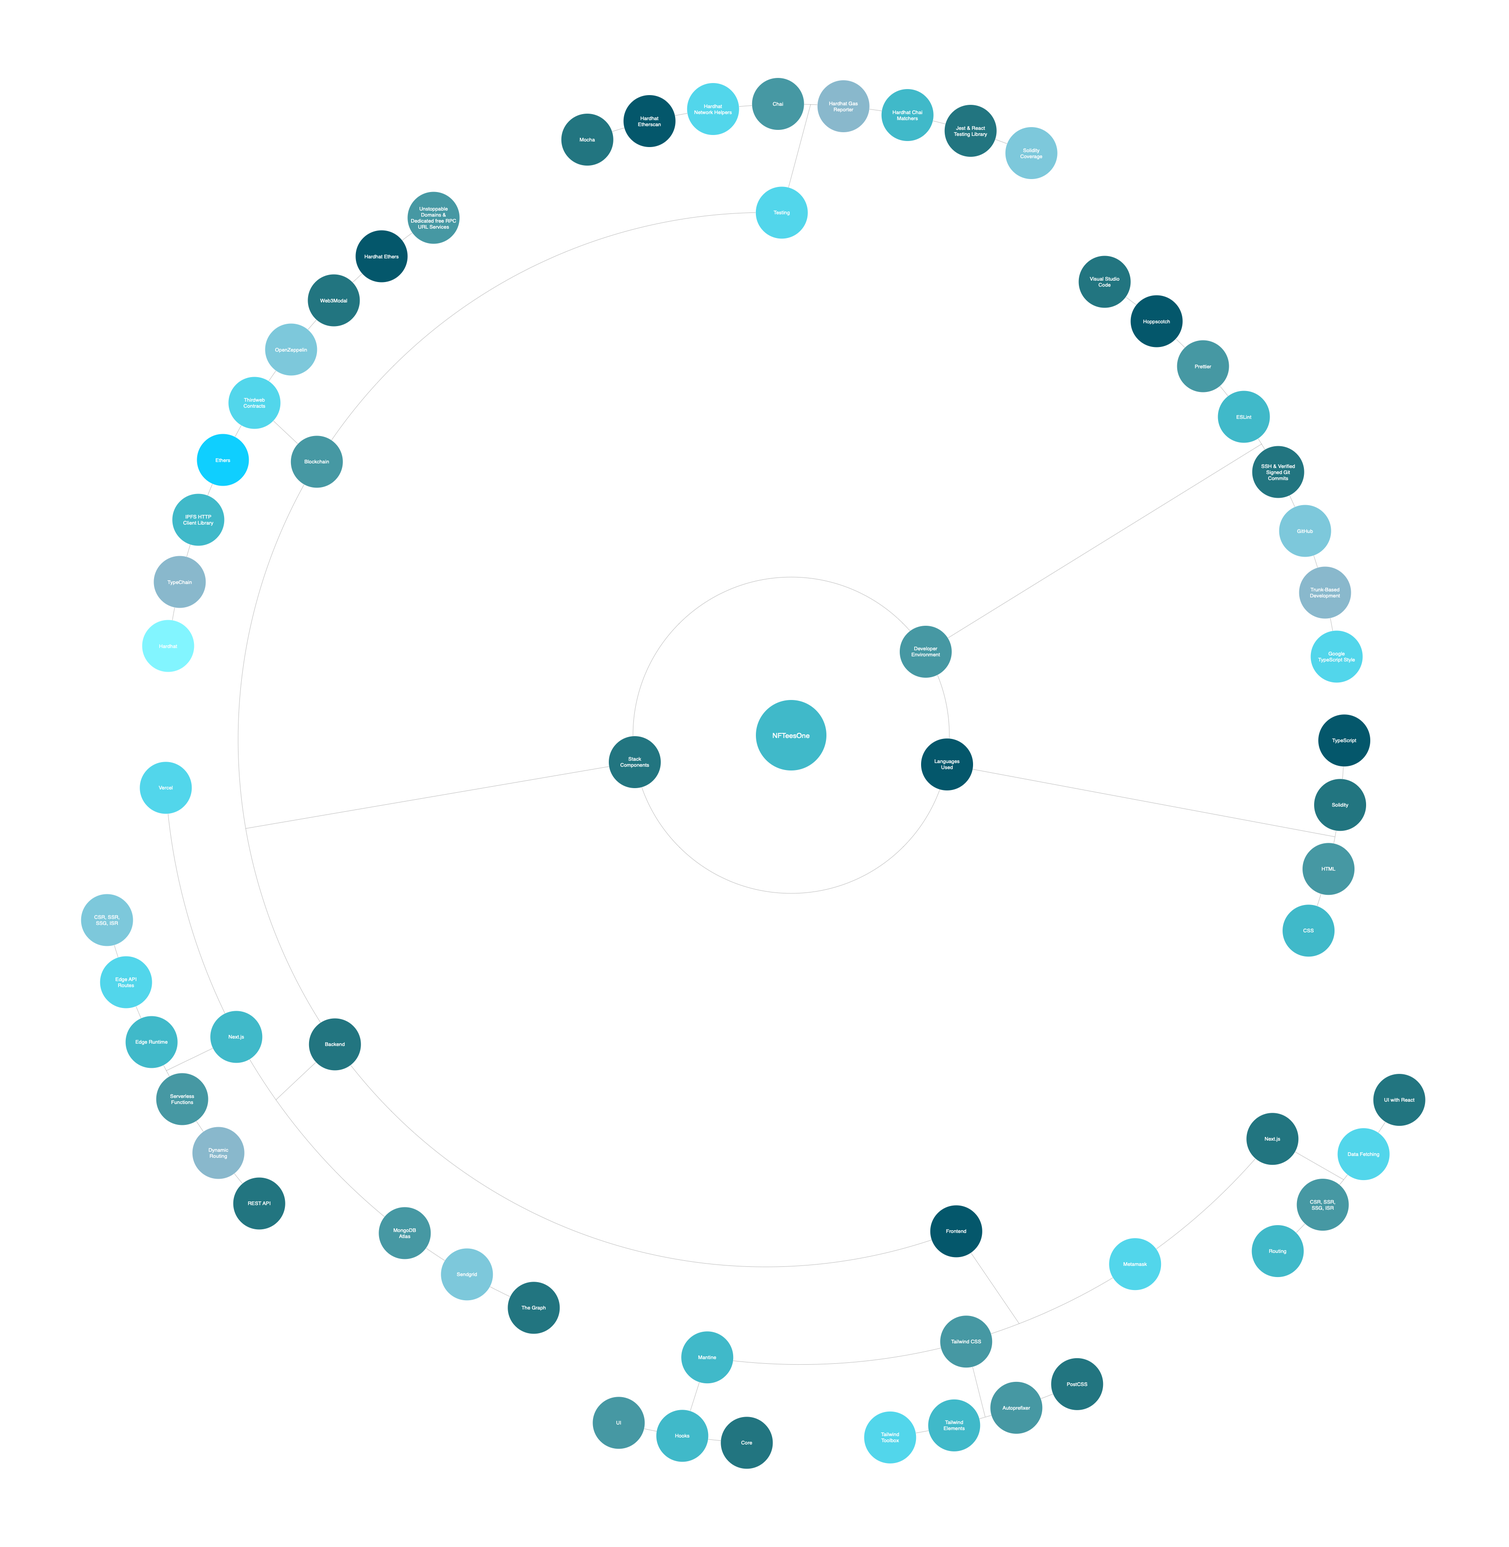
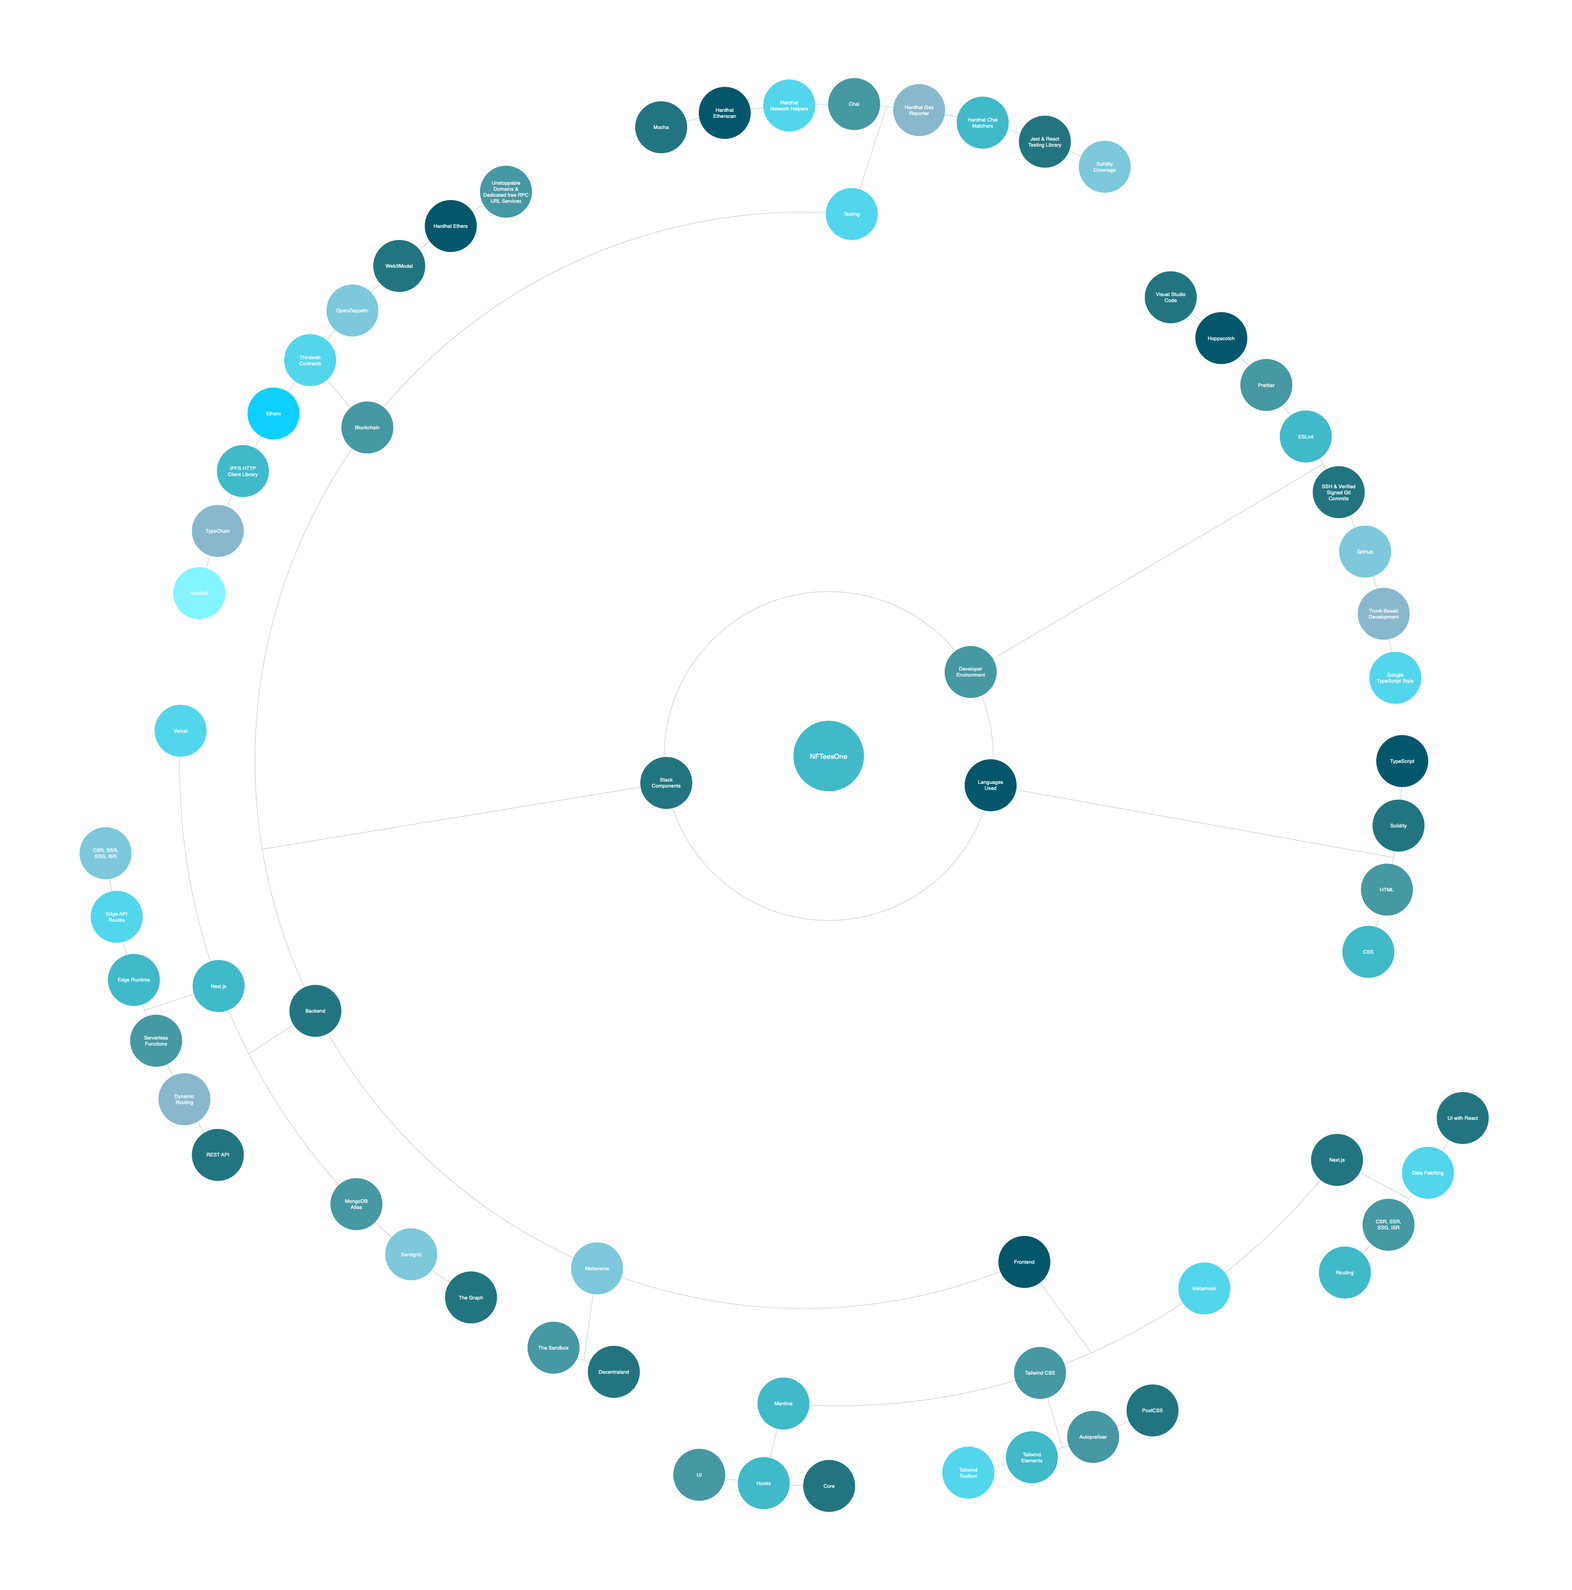
Test map upload

diff --git a/files/data.js b/files/data.js
@@ -1,2 +1,2 @@
-globalMindlyData = { "rootIdea": {"ideas":[{"ideas":[{"ideas":[],"elemtype":1,"identifier":"id1661831984_3","bgcolor":"#04566B","text":"TypeScript"},{"ideas":[],"elemtype":1,"identifier":"id1661832014_6","bgcolor":"#22747F","text":"Solidity"},{"ideas":[],"elemtype":1,"identifier":"id1661832002_4","bgcolor":"#4698A3","text":"HTML"},{"ideas":[],"elemtype":1,"identifier":"id1661832007_5","bgcolor":"#40B9C9","text":"CSS"}],"elemtype":1,"identifier":"id1661831923_2","bgcolor":"#04566B","text":"Languages Used"},{"ideas":[{"ideas":[{"ideas":[{"ideas":[],"elemtype":1,"identifier":"id1661833660_24","bgcolor":"#22747F","text":"UI with React"},{"ideas":[],"elemtype":1,"identifier":"id1661833961_27","bgcolor":"#52D6EA","text":"Data Fetching"},{"ideas":[],"elemtype":1,"identifier":"id1661833731_25","bgcolor":"#4698A3","text":"CSR, SSR, SSG, ISR"},{"ideas":[],"elemtype":1,"identifier":"id1661833954_26","bgcolor":"#40B9C9","text":"Routing"}],"elemtype":1,"identifier":"id1661833259_22","bgcolor":"#22747F","text":"Next.js"},{"ideas":[],"elemtype":1,"identifier":"id1661835725_53","bgcolor":"#52D6EA","text":"Metamask"},{"ideas":[{"ideas":[],"elemtype":1,"identifier":"id1661834052_28","bgcolor":"#22747F","text":"PostCSS"},{"ideas":[],"elemtype":1,"identifier":"id1661834066_29","bgcolor":"#4698A3","text":"Autoprefixer"},{"ideas":[],"elemtype":1,"identifier":"id1661834090_30","bgcolor":"#40B9C9","text":"Tailwind Elements"},{"ideas":[],"elemtype":1,"identifier":"id1661834119_31","bgcolor":"#52D6EA","text":"Tailwind Toolbox"}],"elemtype":1,"identifier":"id1661833286_23","bgcolor":"#4698A3","text":"Tailwind CSS"},{"ideas":[{"ideas":[],"elemtype":1,"identifier":"id1661834279_33","bgcolor":"#22747F","text":"Core"},{"ideas":[],"elemtype":1,"identifier":"id1661834294_35","bgcolor":"#40B9C9","text":"Hooks"},{"ideas":[],"elemtype":1,"identifier":"id1661834283_34","bgcolor":"#4698A3","text":"UI"}],"elemtype":1,"identifier":"id1661834195_32","bgcolor":"#40B9C9","text":"Mantine"}],"elemtype":1,"identifier":"id1661832231_8","bgcolor":"#04566B","text":"Frontend"},{"ideas":[{"ideas":[],"elemtype":1,"identifier":"id1661835841_54","bgcolor":"#22747F","text":"The Graph"},{"ideas":[],"elemtype":1,"identifier":"id1661836499_64","bgcolor":"#7DC8DB","text":"Sendgrid"},{"ideas":[],"elemtype":1,"identifier":"id1661835860_55","bgcolor":"#4698A3","text":"MongoDB Atlas"},{"ideas":[{"ideas":[],"elemtype":1,"identifier":"id1661836133_57","bgcolor":"#22747F","text":"REST API"},{"ideas":[],"elemtype":1,"identifier":"id1661836460_62","bgcolor":"#88B7CC","text":"Dynamic Routing"},{"ideas":[],"elemtype":1,"identifier":"id1661836267_58","bgcolor":"#4698A3","text":"Serverless Functions"},{"ideas":[],"elemtype":1,"identifier":"id1661836289_59","bgcolor":"#40B9C9","text":"Edge Runtime"},{"ideas":[],"elemtype":1,"identifier":"id1661836354_60","bgcolor":"#52D6EA","text":"Edge API Routes"},{"ideas":[],"elemtype":1,"identifier":"id1661836428_61","bgcolor":"#7DC8DB","text":"CSR, SSR, SSG, ISR"}],"elemtype":1,"identifier":"id1661836082_56","bgcolor":"#40B9C9","text":"Next.js"},{"ideas":[],"elemtype":1,"identifier":"id1661836493_63","bgcolor":"#52D6EA","text":"Vercel"}],"elemtype":1,"identifier":"id1661832236_9","bgcolor":"#22747F","text":"Backend"},{"ideas":[{"ideas":[],"elemtype":1,"identifier":"id1661832378_11","bgcolor":"#82F4FF","text":"Hardhat"},{"ideas":[],"elemtype":1,"identifier":"id1661834647_40","bgcolor":"#88B7CC","text":"TypeChain"},{"ideas":[],"elemtype":1,"identifier":"id1661834436_37","bgcolor":"#40B9C9","text":"IPFS HTTP Client Library"},{"ideas":[],"elemtype":1,"identifier":"id1661832506_12","bgcolor":"#0FCFFF","text":"Ethers"},{"ideas":[],"elemtype":1,"identifier":"id1661834499_38","bgcolor":"#52D6EA","text":"Thirdweb Contracts"},{"ideas":[],"elemtype":1,"identifier":"id1661834557_39","bgcolor":"#7DC8DB","text":"OpenZeppelin"},{"ideas":[],"elemtype":1,"identifier":"id1661835207_49","bgcolor":"#22747F","text":"Web3Modal"},{"ideas":[],"elemtype":1,"identifier":"id1661834799_44","bgcolor":"#04566B","text":"Hardhat Ethers"},{"ideas":[],"elemtype":1,"identifier":"id1661835364_50","bgcolor":"#4698A3","text":"Unstoppable Domains & Dedicated free RPC URL Services"}],"elemtype":1,"identifier":"id1661832248_10","bgcolor":"#4698A3","text":"Blockchain"},{"ideas":[{"ideas":[],"elemtype":1,"identifier":"id1661834669_41","bgcolor":"#22747F","text":"Mocha"},{"ideas":[],"elemtype":1,"identifier":"id1661835047_48","bgcolor":"#04566B","text":"Hardhat Etherscan"},{"ideas":[],"elemtype":1,"identifier":"id1661834944_45","bgcolor":"#52D6EA","text":"Hardhat Network Helpers"},{"ideas":[],"elemtype":1,"identifier":"id1661834674_42","bgcolor":"#4698A3","text":"Chai"},{"ideas":[],"elemtype":1,"identifier":"id1661834999_47","bgcolor":"#88B7CC","text":"Hardhat Gas Reporter"},{"ideas":[],"elemtype":1,"identifier":"id1661834717_43","bgcolor":"#40B9C9","text":"Hardhat Chai Matchers"},{"ideas":[],"elemtype":1,"identifier":"id1661836584_65","bgcolor":"#22747F","text":"Jest & React Testing Library"},{"ideas":[],"elemtype":1,"identifier":"id1661834978_46","bgcolor":"#7DC8DB","text":"Solidity Coverage"}],"elemtype":1,"identifier":"id1661834406_36","bgcolor":"#52D6EA","text":"Testing"}],"elemtype":1,"identifier":"id1661832190_7","bgcolor":"#22747F","text":"Stack Components"},{"ideas":[{"ideas":[],"elemtype":1,"identifier":"id1661832753_14","bgcolor":"#22747F","text":"Visual Studio Code"},{"ideas":[],"elemtype":1,"identifier":"id1661836645_66","bgcolor":"#04566B","text":"Hoppscotch"},{"ideas":[],"elemtype":1,"identifier":"id1661832784_15","bgcolor":"#4698A3","text":"Prettier"},{"ideas":[],"elemtype":1,"identifier":"id1661832790_16","bgcolor":"#40B9C9","text":"ESLint"},{"ideas":[],"elemtype":1,"identifier":"id1661872478_126","bgcolor":"#22747F","text":"SSH & Verified Signed Git Commits"},{"ideas":[],"elemtype":1,"identifier":"id1661833074_18","bgcolor":"#7DC8DB","text":"GitHub"},{"ideas":[],"elemtype":1,"identifier":"id1661833134_19","bgcolor":"#88B7CC","text":"Trunk-Based Development"},{"ideas":[],"elemtype":1,"identifier":"id1661832826_17","bgcolor":"#52D6EA","text":"Google TypeScript Style"}],"elemtype":1,"identifier":"id1661832739_13","bgcolor":"#4698A3","text":"Developer Environment"}],"elemtype":1,"identifier":"id1661103910_1","bgcolor":"#40B9C9","text":"NFTeesOne"},
+globalMindlyData = { "rootIdea": {"ideas":[{"ideas":[{"ideas":[],"elemtype":1,"identifier":"id1661831984_3","bgcolor":"#04566B","text":"TypeScript"},{"ideas":[],"elemtype":1,"identifier":"id1661832014_6","bgcolor":"#22747F","text":"Solidity"},{"ideas":[],"elemtype":1,"identifier":"id1661832002_4","bgcolor":"#4698A3","text":"HTML"},{"ideas":[],"elemtype":1,"identifier":"id1661832007_5","bgcolor":"#40B9C9","text":"CSS"}],"elemtype":1,"identifier":"id1661831923_2","bgcolor":"#04566B","text":"Languages Used"},{"ideas":[{"ideas":[{"ideas":[{"ideas":[],"elemtype":1,"identifier":"id1661833660_24","bgcolor":"#22747F","text":"UI with React"},{"ideas":[],"elemtype":1,"identifier":"id1661833961_27","bgcolor":"#52D6EA","text":"Data Fetching"},{"ideas":[],"elemtype":1,"identifier":"id1661833731_25","bgcolor":"#4698A3","text":"CSR, SSR, SSG, ISR"},{"ideas":[],"elemtype":1,"identifier":"id1661833954_26","bgcolor":"#40B9C9","text":"Routing"}],"elemtype":1,"identifier":"id1661833259_22","bgcolor":"#22747F","text":"Next.js"},{"ideas":[],"elemtype":1,"identifier":"id1661835725_53","bgcolor":"#52D6EA","text":"Metamask"},{"ideas":[{"ideas":[],"elemtype":1,"identifier":"id1661834052_28","bgcolor":"#22747F","text":"PostCSS"},{"ideas":[],"elemtype":1,"identifier":"id1661834066_29","bgcolor":"#4698A3","text":"Autoprefixer"},{"ideas":[],"elemtype":1,"identifier":"id1661834090_30","bgcolor":"#40B9C9","text":"Tailwind Elements"},{"ideas":[],"elemtype":1,"identifier":"id1661834119_31","bgcolor":"#52D6EA","text":"Tailwind Toolbox"}],"elemtype":1,"identifier":"id1661833286_23","bgcolor":"#4698A3","text":"Tailwind CSS"},{"ideas":[{"ideas":[],"elemtype":1,"identifier":"id1661834279_33","bgcolor":"#22747F","text":"Core"},{"ideas":[],"elemtype":1,"identifier":"id1661834294_35","bgcolor":"#40B9C9","text":"Hooks"},{"ideas":[],"elemtype":1,"identifier":"id1661834283_34","bgcolor":"#4698A3","text":"UI"}],"elemtype":1,"identifier":"id1661834195_32","bgcolor":"#40B9C9","text":"Mantine"}],"elemtype":1,"identifier":"id1661832231_8","bgcolor":"#04566B","text":"Frontend"},{"ideas":[{"ideas":[],"elemtype":1,"identifier":"id1661888638_2","bgcolor":"#22747F","text":"Decentraland"},{"ideas":[],"elemtype":1,"identifier":"id1661888643_3","bgcolor":"#4698A3","text":"The Sandbox"}],"elemtype":1,"identifier":"id1661888631_1","bgcolor":"#7DC8DB","text":"Metaverse"},{"ideas":[{"ideas":[],"elemtype":1,"identifier":"id1661835841_54","bgcolor":"#22747F","text":"The Graph"},{"ideas":[],"elemtype":1,"identifier":"id1661836499_64","bgcolor":"#7DC8DB","text":"Sendgrid"},{"ideas":[],"elemtype":1,"identifier":"id1661835860_55","bgcolor":"#4698A3","text":"MongoDB Atlas"},{"ideas":[{"ideas":[],"elemtype":1,"identifier":"id1661836133_57","bgcolor":"#22747F","text":"REST API"},{"ideas":[],"elemtype":1,"identifier":"id1661836460_62","bgcolor":"#88B7CC","text":"Dynamic Routing"},{"ideas":[],"elemtype":1,"identifier":"id1661836267_58","bgcolor":"#4698A3","text":"Serverless Functions"},{"ideas":[],"elemtype":1,"identifier":"id1661836289_59","bgcolor":"#40B9C9","text":"Edge Runtime"},{"ideas":[],"elemtype":1,"identifier":"id1661836354_60","bgcolor":"#52D6EA","text":"Edge API Routes"},{"ideas":[],"elemtype":1,"identifier":"id1661836428_61","bgcolor":"#7DC8DB","text":"CSR, SSR, SSG, ISR"}],"elemtype":1,"identifier":"id1661836082_56","bgcolor":"#40B9C9","text":"Next.js"},{"ideas":[],"elemtype":1,"identifier":"id1661836493_63","bgcolor":"#52D6EA","text":"Vercel"}],"elemtype":1,"identifier":"id1661832236_9","bgcolor":"#22747F","text":"Backend"},{"ideas":[{"ideas":[],"elemtype":1,"identifier":"id1661832378_11","bgcolor":"#82F4FF","text":"Hardhat"},{"ideas":[],"elemtype":1,"identifier":"id1661834647_40","bgcolor":"#88B7CC","text":"TypeChain"},{"ideas":[],"elemtype":1,"identifier":"id1661834436_37","bgcolor":"#40B9C9","text":"IPFS HTTP Client Library"},{"ideas":[],"elemtype":1,"identifier":"id1661832506_12","bgcolor":"#0FCFFF","text":"Ethers"},{"ideas":[],"elemtype":1,"identifier":"id1661834499_38","bgcolor":"#52D6EA","text":"Thirdweb Contracts"},{"ideas":[],"elemtype":1,"identifier":"id1661834557_39","bgcolor":"#7DC8DB","text":"OpenZeppelin"},{"ideas":[],"elemtype":1,"identifier":"id1661835207_49","bgcolor":"#22747F","text":"Web3Modal"},{"ideas":[],"elemtype":1,"identifier":"id1661834799_44","bgcolor":"#04566B","text":"Hardhat Ethers"},{"ideas":[],"elemtype":1,"identifier":"id1661835364_50","bgcolor":"#4698A3","text":"Unstoppable Domains & Dedicated free RPC URL Services"}],"elemtype":1,"identifier":"id1661832248_10","bgcolor":"#4698A3","text":"Blockchain"},{"ideas":[{"ideas":[],"elemtype":1,"identifier":"id1661834669_41","bgcolor":"#22747F","text":"Mocha"},{"ideas":[],"elemtype":1,"identifier":"id1661835047_48","bgcolor":"#04566B","text":"Hardhat Etherscan"},{"ideas":[],"elemtype":1,"identifier":"id1661834944_45","bgcolor":"#52D6EA","text":"Hardhat Network Helpers"},{"ideas":[],"elemtype":1,"identifier":"id1661834674_42","bgcolor":"#4698A3","text":"Chai"},{"ideas":[],"elemtype":1,"identifier":"id1661834999_47","bgcolor":"#88B7CC","text":"Hardhat Gas Reporter"},{"ideas":[],"elemtype":1,"identifier":"id1661834717_43","bgcolor":"#40B9C9","text":"Hardhat Chai Matchers"},{"ideas":[],"elemtype":1,"identifier":"id1661836584_65","bgcolor":"#22747F","text":"Jest & React Testing Library"},{"ideas":[],"elemtype":1,"identifier":"id1661834978_46","bgcolor":"#7DC8DB","text":"Solidity Coverage"}],"elemtype":1,"identifier":"id1661834406_36","bgcolor":"#52D6EA","text":"Testing"}],"elemtype":1,"identifier":"id1661832190_7","bgcolor":"#22747F","text":"Stack Components"},{"ideas":[{"ideas":[],"elemtype":1,"identifier":"id1661832753_14","bgcolor":"#22747F","text":"Visual Studio Code"},{"ideas":[],"elemtype":1,"identifier":"id1661836645_66","bgcolor":"#04566B","text":"Hoppscotch"},{"ideas":[],"elemtype":1,"identifier":"id1661832784_15","bgcolor":"#4698A3","text":"Prettier"},{"ideas":[],"elemtype":1,"identifier":"id1661832790_16","bgcolor":"#40B9C9","text":"ESLint"},{"ideas":[],"elemtype":1,"identifier":"id1661872478_126","bgcolor":"#22747F","text":"SSH & Verified Signed Git Commits"},{"ideas":[],"elemtype":1,"identifier":"id1661833074_18","bgcolor":"#7DC8DB","text":"GitHub"},{"ideas":[],"elemtype":1,"identifier":"id1661833134_19","bgcolor":"#88B7CC","text":"Trunk-Based Development"},{"ideas":[],"elemtype":1,"identifier":"id1661832826_17","bgcolor":"#52D6EA","text":"Google TypeScript Style"}],"elemtype":1,"identifier":"id1661832739_13","bgcolor":"#4698A3","text":"Developer Environment"}],"elemtype":1,"identifier":"id1661103910_1","bgcolor":"#40B9C9","text":"NFTeesOne"},
 "mode": "presentation" };

diff --git a/index.html b/index.html
@@ -1,149 +1,18 @@
-<!DOCTYPE html>
-<html lang="en">
-  <head>
-    <meta charset="UTF-8" />
-    <meta
-      name="viewport"
-      content="width=device-width, initial-scale=1.0, shrink-to-fit=no"
-    />
-    <meta http-equiv="X-UA-Compatible" content="ie=edge" />
-    <link
-      rel="stylesheet"
-      href="https://stackpath.bootstrapcdn.com/bootstrap/4.3.1/css/bootstrap.min.css"
-      integrity="sha384-ggOyR0iXCbMQv3Xipma34MD+dH/1fQ784/j6cY/iJTQUOhcWr7x9JvoRxT2MZw1T"
-      crossorigin="anonymous"
-    />
-    <title>About Me | Haz</title>
-    <link rel="stylesheet" href="assets/css/style.css" />
-    <!-- Link Sharing Previews -->
-    <meta property="og:title" content="About Hazael" />
-    <meta
-      property="og:image"
-      content="https://hazael.io/assets/images/portrait.jpeg"
-    />
-  </head>
-
-  <body>
-    <!-- Nav Bar -->
-    <nav class="navbar navbar-expand-lg navbar-light bg-light">
-      <a id="logo" class="navbar-brand" href="index.html">Haz</a>
-      <button
-        class="navbar-toggler"
-        type="button"
-        data-toggle="collapse"
-        data-target="#navbarNavAltMarkup"
-        aria-controls="navbarNavAltMarkup"
-        aria-expanded="false"
-        aria-label="Toggle navigation"
-      >
-        <span class="navbar-toggler-icon"></span>
-      </button>
-      <div class="collapse navbar-collapse" id="navbarNavAltMarkup">
-        <div class="navbar-nav">
-          <a class="nav-item nav-link" href="index.html">About</a>
-          <a class="nav-item nav-link" href="portfolio.html">Portfolio</a>
-          <a
-            class="nav-item nav-link"
-            href="mailto:hazael.j.dominguez@gmail.com?subject=Portfolio%20Contact"
-            >Email Me</a
-          >
-          <a
-            class="nav-item nav-link"
-            href="/assets/docs/Hazael.Dominguez.Resume.pdf"
-            >Resume</a
-          >
-          <a
-            class="nav-item nav-link"
-            href="https://www.linkedin.com/in/haz3141/"
-            >LinkedIn</a
-          >
-          <a class="nav-item nav-link" href="https://github.com/haz3141/"
-            >GitHub</a
-          >
-        </div>
-      </div>
-    </nav>
-
-    <!-- Content Area -->
-    <main class="container">
-      <article class="row">
-        <div class="col-md-1"></div>
-        <section id="about-me" class="col-md-10">
-          <div class="row">
-            <h1 class="col-md-12">About Me</h1>
-          </div>
-
-          <div class="row">
-            <div class="col-md-12">
-              <img class="bio-pic" src="assets/images/me_BW.jpg" alt="Me" />
-              <p>
-                Kaleidoscopes function on the principle of multiple reflection.
-                Using several mirrors angled precisely from one another they are
-                able to turn bits of colored glass into a perfectly symmetrical
-                work of ever changing art. My studies and life experiences as an
-                interdisciplinarian have come together like the parts of a
-                kaleidoscope.
-              </p>
-
-              <p>
-                The mirrors in my life are my areas of study that have allowed
-                me to be involved in several amazing ventures and adventures.
-                Being involved in health and computer sciences has allowed me to
-                build my kaleidoscope, but without my focus on entrepreneurship
-                I would not have the momentum to generate the art in my life.
-              </p>
-
-              <p>
-                As an entrepreneur I take great pride in my past ventures
-                because every failure and every mistake is a chance to keep
-                turning my scope and although with every turn I lose the
-                beautiful art that once was – I know that the pieces are still
-                there and beautiful art is right around the corner. There have
-                been two specific ventures that left a remarkable impact on me.
-                Both of these ventures involved me being in a leadership
-                position reporting directly to the CEO and in both cases I was
-                able to witness incredible feats of injustice and mismanagement.
-                Seeing how these people treated the people that worked for them
-                allowed me to realize my dream of managing and developing
-                businesses while maintaining a sense of morals and respect for
-                those that help you on a daily basis. I want to use my skills
-                and past experiences to help people realize their potential and
-                their organization’s potential. My experiences in the healthcare
-                industry, technological background, and business mentality are
-                the perfect components to any compassion focused scope of
-                business.
-              </p>
-            </div>
-          </div>
-        </section>
-        <div class="col-md-1"></div>
-      </article>
-    </main>
-
-    <!-- Footer -->
-    <footer class="page-footer font-small">
-      <!-- Copyright -->
-      <div class="footer-copyright text-center py-3">
-        Copyright 2020 | Haz | 321.316.9634
-      </div>
-      <!-- Copyright -->
-    </footer>
-    <!-- Footer -->
-
-    <script
-      src="https://code.jquery.com/jquery-3.3.1.slim.min.js"
-      integrity="sha384-q8i/X+965DzO0rT7abK41JStQIAqVgRVzpbzo5smXKp4YfRvH+8abtTE1Pi6jizo"
-      crossorigin="anonymous"
-    ></script>
-    <script
-      src="https://cdnjs.cloudflare.com/ajax/libs/popper.js/1.14.7/umd/popper.min.js"
-      integrity="sha384-UO2eT0CpHqdSJQ6hJty5KVphtPhzWj9WO1clHTMGa3JDZwrnQq4sF86dIHNDz0W1"
-      crossorigin="anonymous"
-    ></script>
-    <script
-      src="https://stackpath.bootstrapcdn.com/bootstrap/4.3.1/js/bootstrap.min.js"
-      integrity="sha384-JjSmVgyd0p3pXB1rRibZUAYoIIy6OrQ6VrjIEaFf/nJGzIxFDsf4x0xIM+B07jRM"
-      crossorigin="anonymous"
-    ></script>
-  </body>
+<!DOCTYPE html PUBLIC "-//W3C//DTD XHTML 1.0 Transitional//EN"	"http://www.w3.org/TR/xhtml1/DTD/xhtml1-transitional.dtd">
+<html xmlns="http://www.w3.org/1999/xhtml" xml:lang="en" lang="en">
+<head>
+  <meta http-equiv="Content-Type" content="text/html; charset=utf-8"/>
+  <meta http-equiv="X-UA-Compatible" content="chrome=1">
+  <meta name="viewport" content="width=device-width, initial-scale=1.0">
+  <meta name="description" content="Mind Map">
+  <meta name="generator" content="Mindly">
+  <title>NFTeesOne</title>
+  <link rel="icon" type="image/x-icon" href="include/favicon.ico" />
+  <link rel="stylesheet" media="screen" href="include/style.css" />
+</head>
+<body class="mindly">
+<div class="mindly mindly-main"></div>
+<script src="files/data.js"></script>
+<script src="include/bundle.js"></script>
+</body>
 </html>
